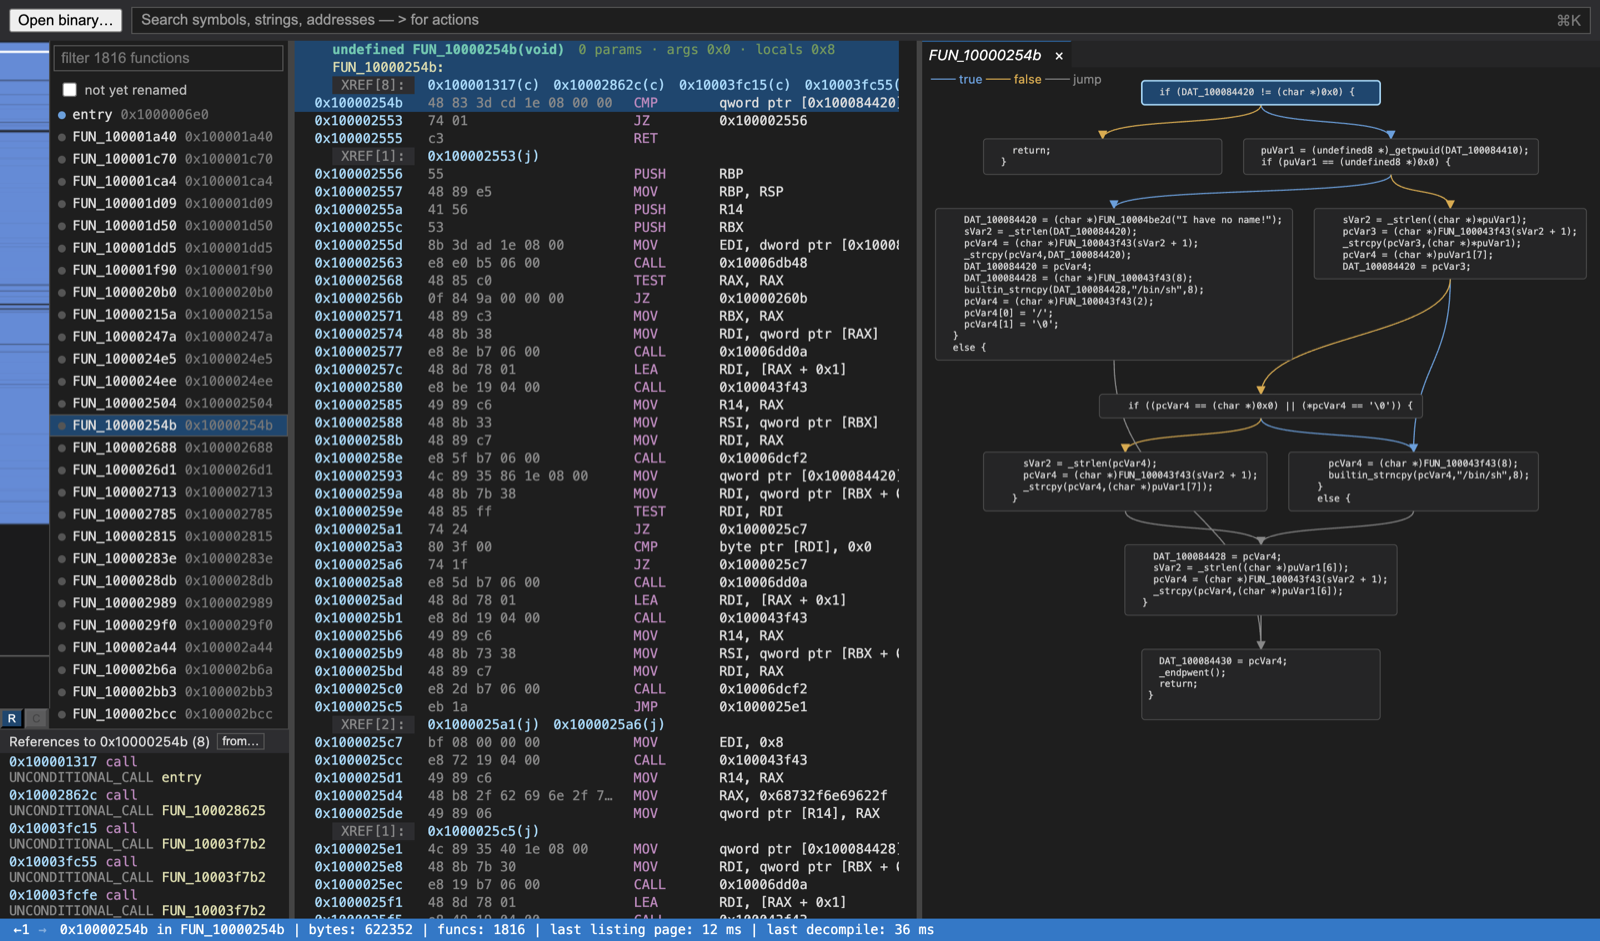
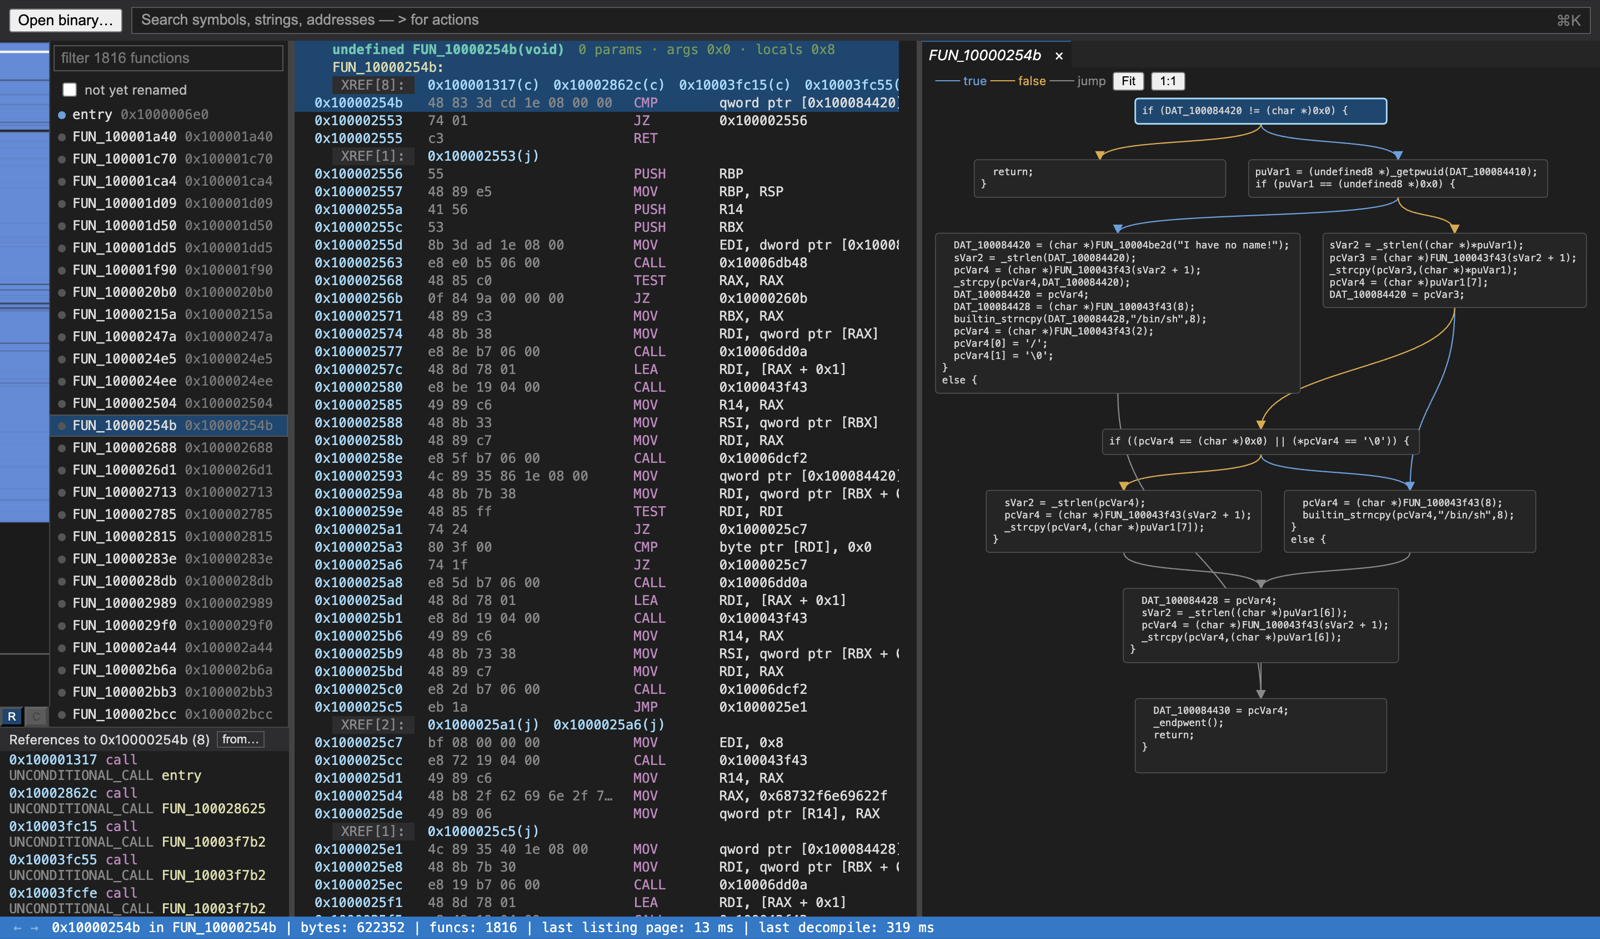
README: graph opens readable (Fit, 1:1, follows the cursor), string leads skip source paths; new graph and command-bar screenshots

diff --git a/README.md b/README.md
@@ -20,7 +20,7 @@ File > Open Binary… (`Cmd+O`), or pick a program from the start screen's proje
 ![Import card with entropy strip and section list](screenshots/import.png)
 
 ### Command bar (`Cmd+K`)
-One bar for jumping, searching and actions. Empty, it lists ranked leads (entry point, the most used imports, strings and functions) with the reason each ranks high. Type to search symbols, strings or an address; string hits show where they are used. Start with `>` for actions (rename, retype, open a panel, load coverage, …). `Cmd+G` goes straight to an address; Back/Forward (`Cmd+[` / `Cmd+]`) live in the status bar.
+One bar for jumping, searching and actions. Empty, it lists ranked leads (entry point, the most used imports, strings and functions) with the reason each ranks high; source-file paths (`__FILE__` in asserts) and very short words are left out of the string leads. Type to search symbols, strings or an address; string hits show where they are used. Start with `>` for actions (rename, retype, open a panel, load coverage, …). `Cmd+G` goes straight to an address; Back/Forward (`Cmd+[` / `Cmd+]`) live in the status bar.
 
 ![Command bar with ranked leads](screenshots/command-bar.png)
 
@@ -28,7 +28,7 @@ One bar for jumping, searching and actions. Empty, it lists ranked leads (entry 
 The function list filters by name; tick **not yet renamed** to see only functions nobody has named. The vertical binary map beside it shows the whole file; click or drag to go there, and toggle its layers with **R** (renamed functions) and **C** (coverage). The listing shows function headers, comments, `XREF[n]` annotations (click to follow) and folded structures; the decompiler follows the cursor and opens one tab per function. `X` on a listing row or decompiler token opens its references in the panel under the function list (screenshot at the top of this page).
 
 ### Control-flow graph (`Space`)
-`Space` in the listing or decompiler (or View > Control-Flow Graph) swaps the decompiler for the function's graph. Blocks show C where the decompiler maps them, otherwise assembly; edges are blue (true), orange (false) and grey (jump). Wheel zooms, drag pans, a click on a block moves the cursor there.
+`Space` in the listing or decompiler (or View > Control-Flow Graph) swaps the decompiler for the function's graph. Blocks show C where the decompiler maps them, otherwise assembly; edges are blue (true), orange (false) and grey (jump). A graph that would only fit at an unreadable size opens at actual size on the cursor's block instead; **Fit** shows the whole graph, **1:1** returns to the cursor's block, and the view follows the cursor when it moves to a block off screen. Wheel zooms, drag pans, a click on a block moves the cursor there.
 
 ![Control-flow graph at C level](screenshots/graph.png)
 
